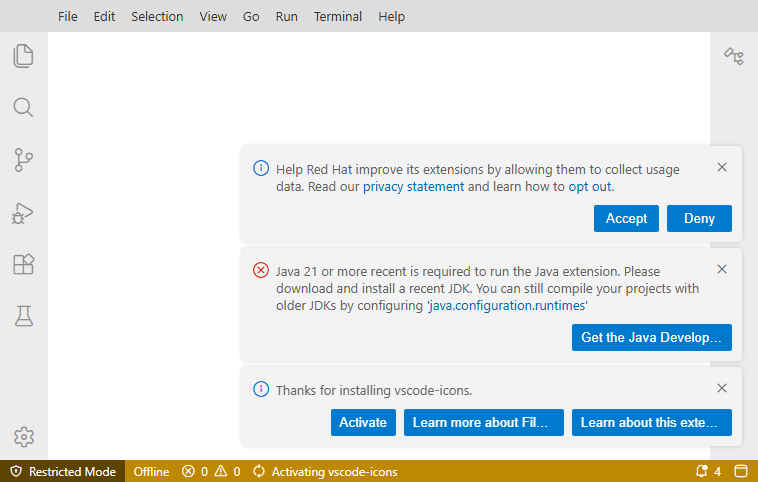
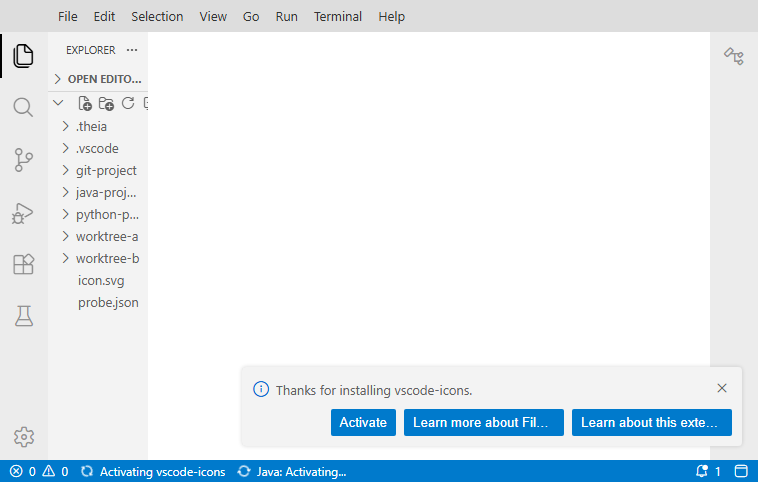
test(IMP-02): TV-001 1단계 통과 — 호스트 구동·확장 6종 활성화·검증 작업대 탐색기 확인
- 하네스 보강: 실행별 임시 포트(백엔드·CDP), 검증 작업대 설정(신뢰 해제·JDK 21), 탐색기 확장(Ctrl+Shift+E), 서버 정리
- 작업대 생성기에 .theia/.vscode 설정 파일 추가(신뢰 해제, java.jdt.ls.java.home)
- 진단 도구 diagnose.mjs 추가
- 증거: docs/evidence/TV-001 (1단계 통과 판정, 화면·요약·백엔드 로그 갱신)
- 남은 항목: Java/Python 언어 기능, 중단점·변수, TV-002 워크트리 교차 전환, 데스크톱 셸(환경 차단)

diff --git a/docs/evidence/TV-001/README.md b/docs/evidence/TV-001/README.md
@@ -1,6 +1,6 @@
-# TV-001 후보 IDE 확장·언어 기능 검증 (진행 중)
+# TV-001 후보 IDE 확장·언어 기능 검증 (1단계 통과)
 
-2026-09-23. 판정: **진행 중(부분 통과)**. 후보 IDE(Theia 1.75.0) 호스트를 구성해 실제로 띄웠고 확장을 설치·활성화했으나, 편집기 언어 기능과 디버깅 항목은 아직 확인하지 않았다. 통과로 보고하지 않는다.
+2026-09-23. 판정: **1단계 통과 / 전체 진행 중**. 후보 IDE 호스트(Theia 1.75.0)를 구성해 확장을 설치·활성화하고 검증 작업대를 열어 탐색기까지 확인했다. 편집기 언어 기능(자동완성·선언 이동·진단·이름 변경)과 디버깅(중단점·변수)은 아직 확인하지 않았으므로 TV-001 전체를 통과로 표시하지 않는다.
 
 ## 1. 실행 조건
 
@@ -8,43 +8,45 @@
 | --- | --- |
 | 실행일 | 2026-09-23 (KST) |
 | OS | Windows 11 10.0.26200 (x64) |
-| 후보 IDE | Theia 1.75.0 (VS Code API 지원 범위 1.134.0, `DEFAULT_SUPPORTED_API_VERSION`) |
+| 후보 IDE | Theia 1.75.0, VS Code API 지원 범위 1.134.0(`DEFAULT_SUPPORTED_API_VERSION`) |
 | 호스트 소스 | `apps/ide-verification-host` (검증 호스트. 제품 앱 아님) |
-| 자동화 | CDP(원격 디버깅)로 헤드리스 Chrome만 조작. 사용자 포커스·커서 비침해 |
-| 재현 명령 | `npm run verify:theia:tv001` (사전: 호스트 설치·빌드·확장 다운로드) |
+| 자동화 | CDP로 헤드리스 Chrome만 조작. 사용자 마우스·키보드·창 포커스 비침해 |
+| 재현 명령 | `npm run verify:theia:tv001` (사전: 호스트 설치·빌드·확장 내려받기) |
 
-## 2. 확인한 것
+## 2. 1단계 결과
 
-| 항목 | 결과 |
+| 확인 항목 | 결과 |
 | --- | --- |
 | 호스트 빌드 | 성공. esbuild로 브라우저·노드 번들 생성 |
-| 백엔드 기동 | 성공. `http://127.0.0.1:3000` 프론트엔드 응답 200 |
-| 확장 배포 | 6개 배포: redhat.java, vscjava.vscode-java-debug, ms-python.python, ms-python.vscode-python-envs, ms-python.debugpy, vscode-icons-team.vscode-icons |
-| 확장 활성화 | redhat.java가 실행되어 원격 측정 동의 요청과 JDK 경고를 표시(JVM 언어 서버 구동 시도 확인) |
-| 워크벤치 화면 | 앱 셸·메뉴·상태 표시줄 렌더 확인, 스크린샷 기록 |
-| 콘솔 오류 | 브라우저 콘솔 오류 0건 |
+| 백엔드 기동 | 성공. 시나리오마다 임시 포트로 띄우고 끝나면 정리 |
+| 확장 배포 | 6종: redhat.java, vscjava.vscode-java-debug, ms-python.python, ms-python.vscode-python-envs, ms-python.debugpy, vscode-icons-team.vscode-icons |
+| 확장 활성화 | 상태 표시줄에 `Java: Activating…`·`Activating vscode-icons` 표시, 아이콘 테마 활성화 알림 확인 |
+| 검증 작업대 열기 | 창 제목이 검증 작업대 이름으로 바뀜 |
+| 탐색기 항목 | `.theia`, `.vscode`, `git-project`, `java-project`, `python-project`, `worktree-a`, `worktree-b`, `icon.svg`, `probe.json` |
+| 워크스페이스 신뢰 | 작업대 설정으로 신뢰 대화상자를 없애고 제한 모드 해제(제한 모드 표시 사라짐) |
+| 브라우저 콘솔 오류 | 0건 |
 
-## 3. 막힌 지점
+## 3. 남은 항목
 
-| 항목 | 원인 |
+| 항목 | 상태 |
 | --- | --- |
-| 데스크톱(Electron) 셸 | 이 PC에 Visual Studio 빌드 도구가 없어 `@theia/ffmpeg`·`drivelist`·`native-keymap`·`keytar` 네이티브 모듈을 컴파일할 수 없다. 현재는 browser 타깃 + 헤드리스 Chrome으로 검증한다 |
-| 워크스페이스 신뢰 모드 | 신뢰 대화상자가 첫 실행에서 부정으로 기록되어 상태 표시줄이 제한 모드로 남았다. 설정 파일로 우회하려 했으나 사용자 설정 경로(`~/.theia`)가 적용되지 않아 재확인 필요 |
-| Java 확장 | JDK 21이 필요하다고 경고한다. `JAVA_HOME`을 지정해 기동했으나 확장이 인식하지 못했다(`java.jdt.ls.java.home` 설정 필요 여부 확인 중) |
-| 언어 기능 | 자동완성·선언 이동·오류 표시·이름 변경은 미확인 |
-| 디버깅 | 중단점·변수 조회는 미확인 |
+| Java 진단·자동완성·선언 이동·이름 변경 | 미확인. 확장은 활성화 단계까지 확인 |
+| Python 자동완성·선언 이동(교차 모듈) | 미확인 |
+| 중단점·변수 조회(Java 디버깅) | 미확인. JDK 21 설정(`java.jdt.ls.java.home`)은 작업대에 적용해 둠 |
+| 데스크톱(Electron) 셸 | 환경 차단. 이 PC에 Visual Studio 빌드 도구가 없어 ffmpeg·drivelist·native-keymap·keytar 네이티브 모듈 컴파일 불가 |
+| Pylance | 대체 불가. Open VSX에 없어 Python은 확장 포함 언어 서버 사용 |
 
 ## 4. 다음 절차
 
-1. 워크스페이스 신뢰 상태를 확실히 해제하거나 신뢰 폴더로 등록해 탐색기·편집기가 정상 동작하게 한다.
-2. Java 확장이 JDK 21을 인식하도록 설정(`java.jdt.ls.java.home` 등)을 적용한다.
-3. 편집기를 열어 자동완성·선언 이동·진단·이름 변경을 확인하고, 디버그 세션으로 중단점·지역 변수를 확인한다.
-4. 검증 작업대의 워크트리 두 개(`worktree-a`, `worktree-b`)로 TV-002 교차 전환을 확인한다.
+1. 탐색기에서 `java-project/src/main/java/demo/Greeter.java`를 열어 진단·자동완성·이름 변경을 확인한다.
+2. `java-project`에서 디버그 세션을 시작해 중단점·지역 변수를 확인한다.
+3. Python 프로젝트에서 교차 모듈 자동완성·선언 이동을 확인한다.
+4. 워크트리 두 개에서 같은 상대 경로를 열고 20회 교차 전환해 TV-002를 확인한다.
 
 ## 5. 증거
 
-- 화면: `docs/evidence/TV-001/raw/workbench.png`
-- 요약: `docs/evidence/TV-001/raw/tv-001-summary.json`
+- 화면(탐색기·확장 활성화 상태): `docs/evidence/TV-001/raw/workbench.png`
+- 요약(항목별 통과 근거): `docs/evidence/TV-001/raw/tv-001-summary.json`
 - 백엔드 로그(확장 배포 기록): `docs/evidence/TV-001/raw/backend.log`
-- 하네스: `scripts/verification/theia-host/` (`run.mjs`, `tv-001.mjs`, `cdp.mjs`, `probe-workspace.mjs`)
+- 하네스: `scripts/verification/theia-host/` (`run.mjs`, `tv-001.mjs`, `cdp.mjs`, `probe-workspace.mjs`, `diagnose.mjs`)
 - 연결 REQ-022, REQ-023 / ADR-001
